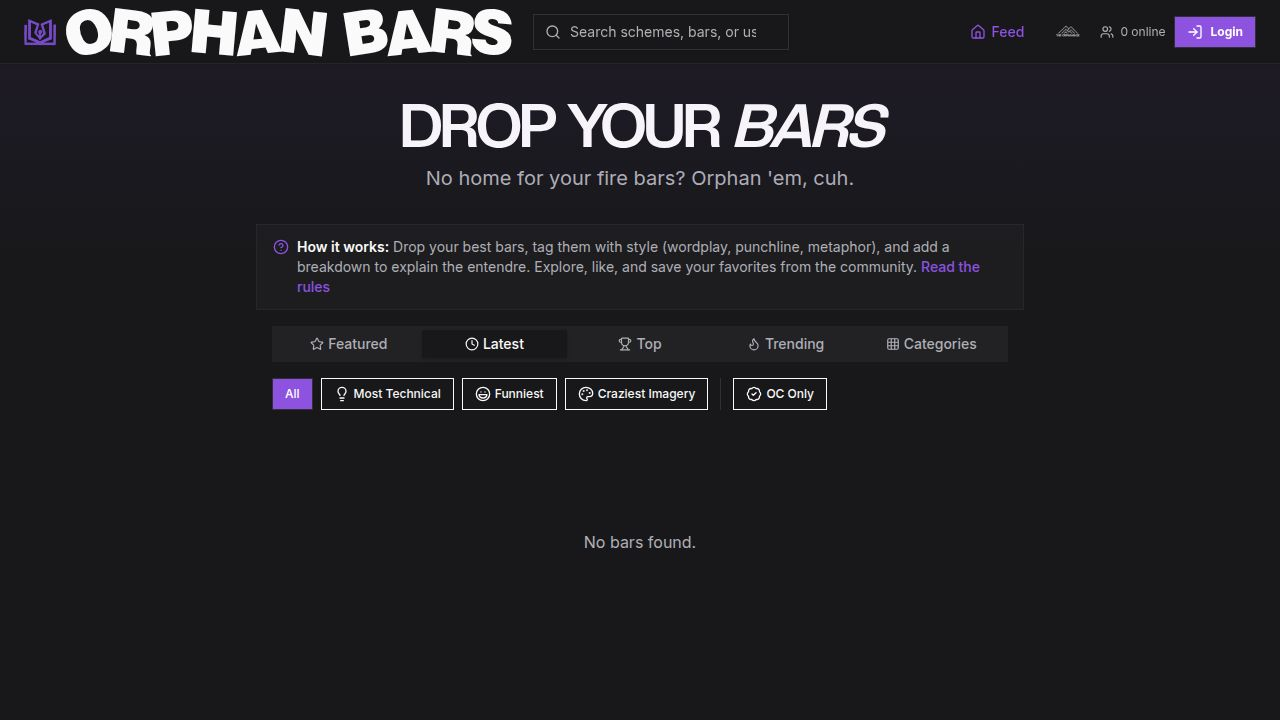
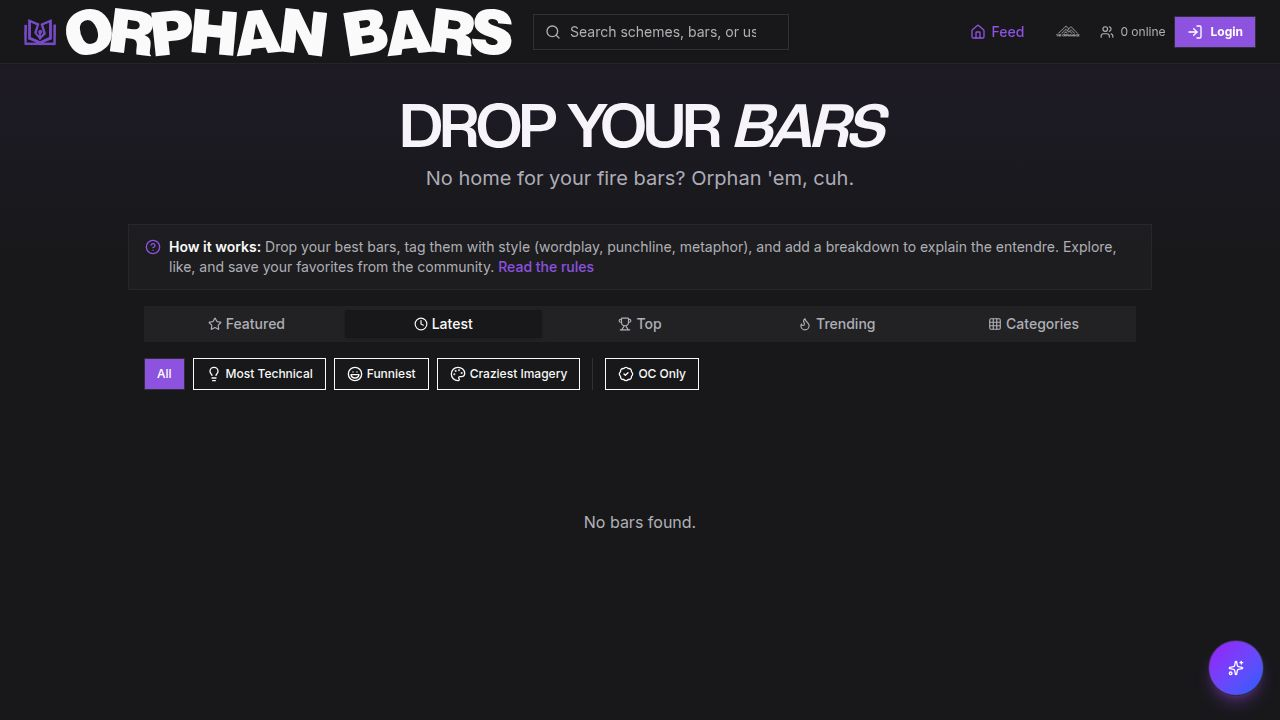
Improve desktop layout by widening content areas on larger screens
Adjusts max-width properties on multiple page components (BarDetail, Guidelines, Home, Orphanage, Profile, Saved, Terms, UserProfile) to use responsive scaling (`lg:max-w-4xl`, `xl:max-w-5xl`) for improved desktop viewing.

Replit-Commit-Author: Agent
Replit-Commit-Session-Id: 9b54b76e-13fc-4fe8-93a5-90ab2fbf1e24
Replit-Commit-Checkpoint-Type: full_checkpoint
Replit-Commit-Event-Id: e14e0462-dc1c-40c2-83c9-834277ad20c2
Replit-Commit-Screenshot-Url: https://storage.googleapis.com/screenshot-production-us-central1/ceffc5c3-e952-4163-a449-5ae4e89adb8e/9b54b76e-13fc-4fe8-93a5-90ab2fbf1e24/FE5JzM9
Replit-Helium-Checkpoint-Created: true

diff --git a/client/src/pages/Saved.tsx b/client/src/pages/Saved.tsx
@@ -32,7 +32,7 @@ export default function Saved() {
     return (
       <div className="min-h-screen bg-background pt-14 pb-20 md:pb-0 md:pt-16">
         <Navigation />
-        <div className="max-w-3xl mx-auto px-4 py-8">
+        <div className="max-w-3xl lg:max-w-4xl xl:max-w-5xl mx-auto px-4 py-8">
           <BarSkeletonList count={3} />
         </div>
       </div>
@@ -43,7 +43,7 @@ export default function Saved() {
     <div className="min-h-screen bg-background pt-14 pb-20 md:pb-0 md:pt-16">
       <Navigation />
       
-      <main className="max-w-3xl mx-auto">
+      <main className="max-w-3xl lg:max-w-4xl xl:max-w-5xl mx-auto">
         <div className="px-4 py-8">
           <div className="flex items-center gap-3 mb-6">
             <Bookmark className="h-6 w-6 text-primary" />

diff --git a/client/src/pages/UserProfile.tsx b/client/src/pages/UserProfile.tsx
@@ -204,7 +204,7 @@ export default function UserProfile() {
     return (
       <div className="min-h-screen bg-background pt-14 pb-20 md:pb-0 md:pt-16">
         <Navigation />
-        <main className="container max-w-2xl mx-auto px-4 py-6">
+        <main className="max-w-3xl lg:max-w-4xl xl:max-w-5xl mx-auto px-4 py-6">
           <Button
             variant="ghost"
             className="mb-4"
@@ -224,7 +224,7 @@ export default function UserProfile() {
   return (
     <div className="min-h-screen bg-background pt-14 pb-20 md:pb-0 md:pt-16">
       <Navigation />
-      <main className="container max-w-2xl mx-auto px-4 py-6">
+      <main className="max-w-3xl lg:max-w-4xl xl:max-w-5xl mx-auto px-4 py-6">
         <Button
           variant="ghost"
           className="mb-4"

diff --git a/client/src/pages/Home.tsx b/client/src/pages/Home.tsx
@@ -162,7 +162,7 @@ export default function Home() {
         <div className="relative">
           <div className="absolute inset-0 bg-gradient-to-b from-primary/5 to-transparent h-48 pointer-events-none" />
           
-          <div className="max-w-3xl mx-auto">
+          <div className="max-w-3xl lg:max-w-4xl xl:max-w-5xl mx-auto">
             <div className="px-4 py-8 md:text-center space-y-2">
               <h1 className="text-4xl md:text-6xl font-display font-black uppercase tracking-tighter text-foreground">
                 Drop Your <span className="text-foreground font-black italic">Bars</span>

diff --git a/client/src/pages/Guidelines.tsx b/client/src/pages/Guidelines.tsx
@@ -8,7 +8,7 @@ export default function Guidelines() {
     <div className="min-h-screen bg-background pt-14 pb-20 md:pb-0 md:pt-16">
       <Navigation />
       
-      <main className="max-w-3xl mx-auto px-4 py-8">
+      <main className="max-w-3xl lg:max-w-4xl xl:max-w-5xl mx-auto px-4 py-8">
         <div className="mb-6">
           <Link href="/">
             <Button variant="ghost" className="gap-2 -ml-2" data-testid="button-back">

diff --git a/client/src/pages/Terms.tsx b/client/src/pages/Terms.tsx
@@ -8,7 +8,7 @@ export default function Terms() {
     <div className="min-h-screen bg-background pt-14 pb-20 md:pb-0 md:pt-16">
       <Navigation />
       
-      <main className="max-w-3xl mx-auto px-4 py-8">
+      <main className="max-w-3xl lg:max-w-4xl xl:max-w-5xl mx-auto px-4 py-8">
         <div className="mb-6">
           <Link href="/">
             <Button variant="ghost" className="gap-2 -ml-2" data-testid="button-back">

diff --git a/client/src/pages/Orphanage.tsx b/client/src/pages/Orphanage.tsx
@@ -246,7 +246,7 @@ export default function Orphanage() {
     <div className="min-h-screen bg-background pt-14 pb-20 md:pb-0 md:pt-16">
       <Navigation />
       
-      <main className="max-w-3xl mx-auto">
+      <main className="max-w-3xl lg:max-w-4xl xl:max-w-5xl mx-auto">
         <div className="px-4 py-8">
           <div className="flex flex-col items-center mb-10">
             <img 

diff --git a/client/src/pages/BarDetail.tsx b/client/src/pages/BarDetail.tsx
@@ -21,7 +21,7 @@ export default function BarDetail() {
   return (
     <div className="min-h-screen bg-background pt-14 pb-20 md:pb-0 md:pt-16">
       <Navigation />
-      <main className="container max-w-2xl mx-auto px-4 py-6">
+      <main className="max-w-3xl lg:max-w-4xl xl:max-w-5xl mx-auto px-4 py-6">
         <Button
           variant="ghost"
           className="mb-4"

diff --git a/client/src/pages/Profile.tsx b/client/src/pages/Profile.tsx
@@ -119,7 +119,7 @@ export default function Profile() {
     <div className="min-h-screen bg-background pt-14 pb-20 md:pb-0 md:pt-16">
       <Navigation />
       
-      <main className="max-w-3xl mx-auto">
+      <main className="max-w-3xl lg:max-w-4xl xl:max-w-5xl mx-auto">
         {/* Profile Header */}
         <div className="relative">
           {currentUser.bannerUrl ? (
